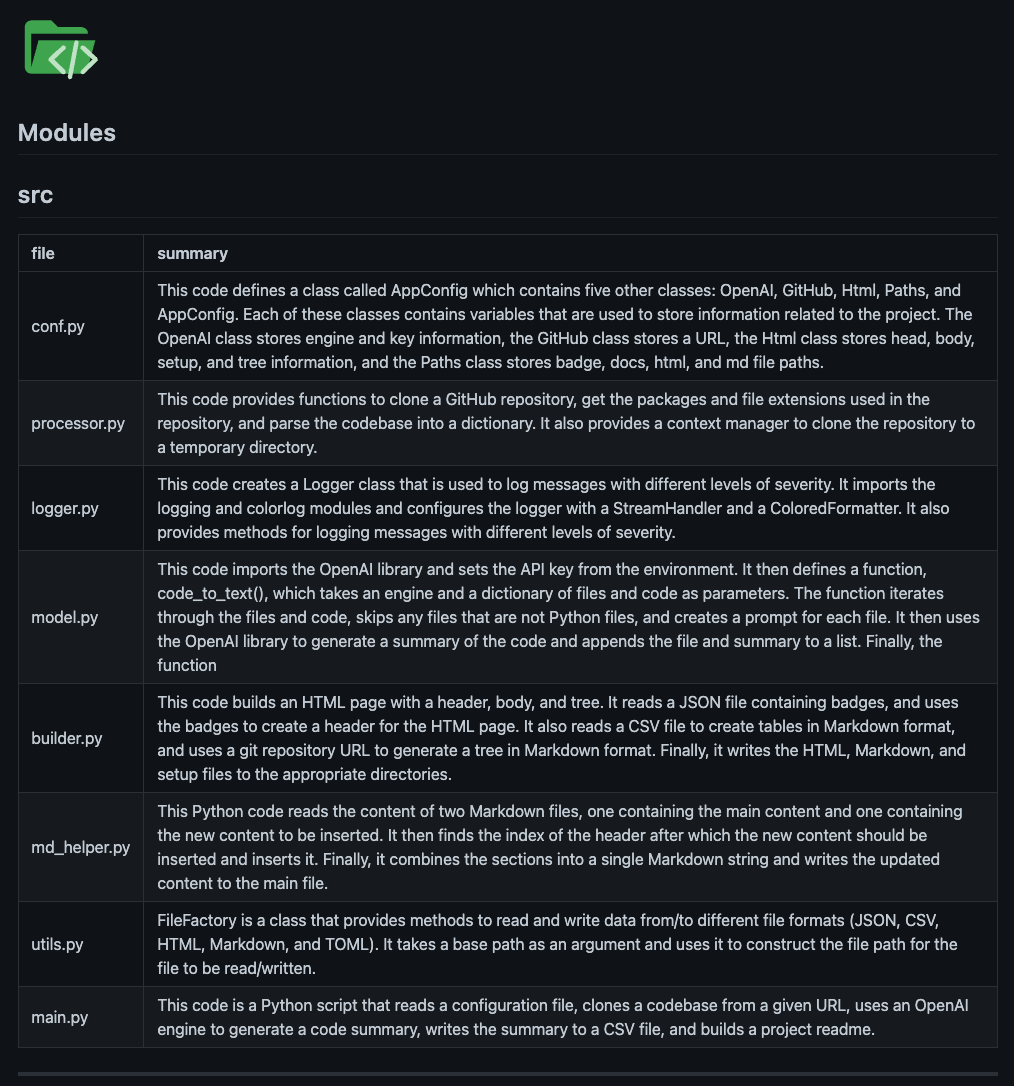
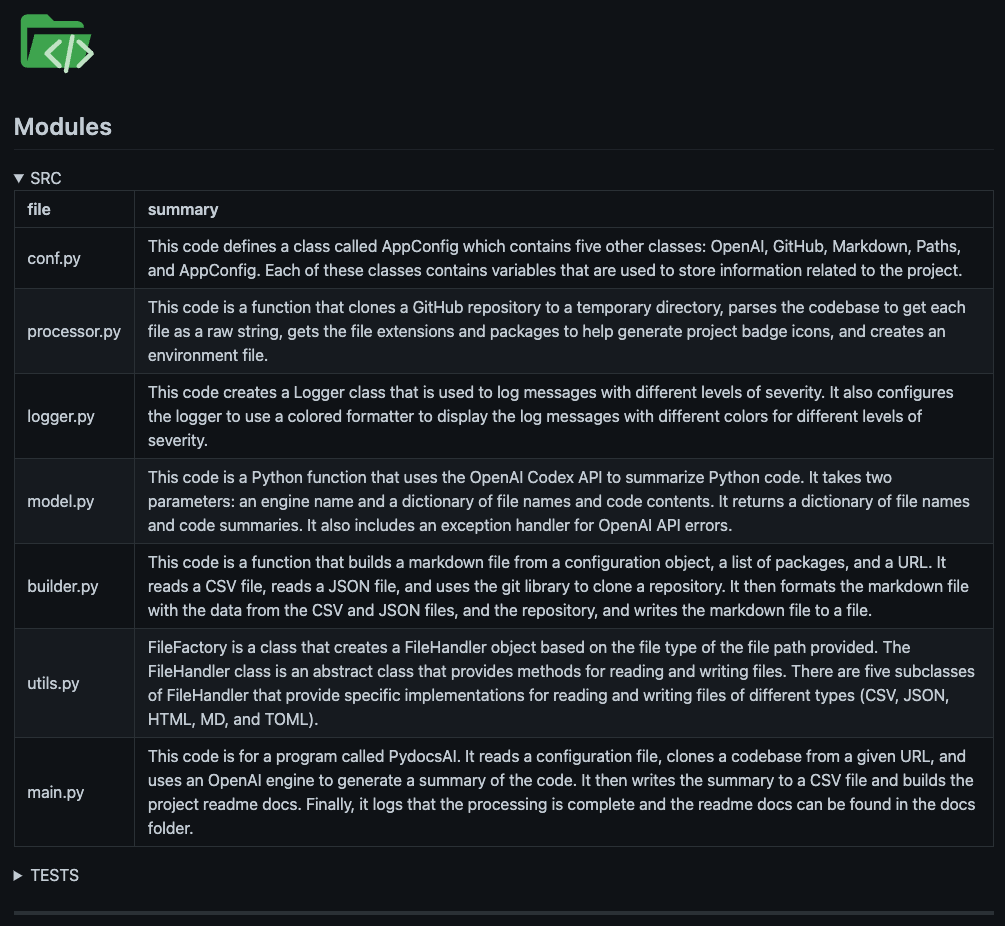
Update name from PydocsAI to README-AI.

diff --git a/src/builder.py b/src/builder.py
@@ -97,6 +97,8 @@ def get_header(badges, pkgs):
     for pkg in pkgs:
         if pkg in badges:
             pkg_name = pkg.strip().lower()
+            if not pkg_name:
+                pkg_name = pkg.strip()
             badge = badges[pkg_name]["src"]
             header += f"![{pkg_name}]({badge})"
     return header

diff --git a/docs/readme.md b/docs/readme.md
@@ -4,7 +4,7 @@
 
 <img src="https://raw.githubusercontent.com/PKief/vscode-material-icon-theme/ec559a9f6bfd399b82bb44393651661b08aaf7ba/icons/folder-markdown-open.svg" width="100">
 
-<div><p>PydocsAI</p></h1>
+<div><p>README-AI</p></h1>
 
 
 > [insert-project-summary]
@@ -84,31 +84,31 @@
 
 <details closed><summary>SRC</summary>
 
-| file         | summary                                                                                                                                                                                                                                                                                                                                                                             |
-|:-------------|:------------------------------------------------------------------------------------------------------------------------------------------------------------------------------------------------------------------------------------------------------------------------------------------------------------------------------------------------------------------------------------|
-| conf.py      | This code defines a class called AppConfig which contains five other classes: OpenAI, GitHub, Markdown, Paths, and AppConfig. Each of these classes contains variables that are used to store information related to the project.                                                                                                                                                   |
-| processor.py | This code is a function that clones a GitHub repository to a temporary directory, parses the codebase to get each file as a raw string, gets the file extensions and packages to help generate project badge icons, and creates an environment file.                                                                                                                                |
-| logger.py    | This code creates a Logger class that is used to log messages with different levels of severity. It imports the logging and colorlog modules and sets up a StreamHandler with a ColoredFormatter to format the log messages. It also provides methods for logging messages with different levels of severity.                                                                       |
-| model.py     | This code is a Python function that uses the OpenAI Codex API to summarize Python code. It takes two parameters: an engine name and a dictionary of file names and code contents. It returns a dictionary of file names and code summaries. It also includes an exception handler for OpenAI API errors.                                                                            |
-| builder.py   | This code is a function that builds a markdown file from a configuration object, a list of packages, and a URL. It reads a CSV file, reads a JSON file, and uses the git library to clone a repository. It then formats the markdown file with the data from the CSV and JSON files, and the repository tree.                                                                       |
-| utils.py     | FileFactory is a class that creates a FileHandler object based on the file type of the file path provided. The FileHandler class is an abstract class that provides methods for reading and writing files. There are five subclasses of FileHandler that provide specific implementations for reading and writing files of different types (CSV, JSON, HTML, MD, and TOML).         |
-| main.py   | This code is a script for a program called PydocsAI. It imports various modules and reads a configuration file. It then clones a codebase from a given URL and creates a list of packages and extensions. It then uses an OpenAI engine to generate a summary of the code and writes it to a CSV file. Finally, it builds the project readme docs and prints a message to the user. |
+| file         | summary                                                                                                                                                                                                                                                                                                                                                                     |
+|:-------------|:----------------------------------------------------------------------------------------------------------------------------------------------------------------------------------------------------------------------------------------------------------------------------------------------------------------------------------------------------------------------------|
+| conf.py      | This code defines a class called AppConfig which contains five other classes: OpenAI, GitHub, Markdown, Paths, and AppConfig. Each of these classes contains variables that are used to store information related to the project.                                                                                                                                           |
+| processor.py | This code is a function that clones a GitHub repository to a temporary directory, parses the codebase to get each file as a raw string, gets the file extensions and packages to help generate project badge icons, and creates an environment file.                                                                                                                        |
+| logger.py    | This code creates a Logger class that is used to log messages with different levels of severity. It also configures the logger to use a colored formatter to display the log messages with different colors for different levels of severity.                                                                                                                               |
+| model.py     | This code is a Python function that uses the OpenAI Codex API to summarize Python code. It takes two parameters: an engine name and a dictionary of file names and code contents. It returns a dictionary of file names and code summaries. It also includes an exception handler for OpenAI API errors.                                                                    |
+| builder.py   | This code is a function that builds a markdown file from a configuration object, a list of packages, and a URL. It reads a CSV file, reads a JSON file, and uses the git library to clone a repository. It then formats the markdown file with the data from the CSV and JSON files, and the repository, and writes the markdown file to a file.                            |
+| utils.py     | FileFactory is a class that creates a FileHandler object based on the file type of the file path provided. The FileHandler class is an abstract class that provides methods for reading and writing files. There are five subclasses of FileHandler that provide specific implementations for reading and writing files of different types (CSV, JSON, HTML, MD, and TOML). |
+| main.py       | This code is for a program called PydocsAI. It reads a configuration file, clones a codebase from a given URL, and uses an OpenAI engine to generate a summary of the code. It then writes the summary to a CSV file and builds the project readme docs. Finally, it logs that the processing is complete and the readme docs can be found in the docs folder.              |
 
 </details>
 
 
 <details closed><summary>TESTS</summary>
 
-| file              | summary                                                                                                                                                                                                                                                                                                                                                                                       |
-|:------------------|:----------------------------------------------------------------------------------------------------------------------------------------------------------------------------------------------------------------------------------------------------------------------------------------------------------------------------------------------------------------------------------------------|
-| test_model.py     | This code is a unit test for the code_to_text function in the model module. It mocks the openai.Completion.create function and tests the code_to_text function with two different files. It then checks that the expected output is returned.                                                                                                                                                 |
-| test_utils.py     | This code is a Python file containing utility functions for testing. It contains two functions, 'assert_equal' and 'assert_not_equal', which are used to compare two values and check if they are equal or not. The functions will return a boolean value indicating the result of the comparison.                                                                                            |
-| conftest.py       | This code is a pytest configuration file. It defines two fixtures, test_conf and my_fixture. The test_conf fixture has a scope of "function" while the my_fixture fixture returns a list of numbers.                                                                                                                                                                                          |
-| test_conf.py      | This code is a test for the AppConfig class. It creates an instance of AppConfig with OpenAI, GitHub, Markdown, and Paths objects as parameters. It then tests the values of the parameters to make sure they are correct.                                                                                                                                                                    |
-| test_builder.py   | This code is a Python script for testing a builder module. It contains a class called TestBuilder which has two methods: test_build_and_run and test_run. The test_build_and_run method tests the build and run functionality of the builder module, while the test_run method tests the run functionality of the builder module.                                                             |
-| test_processor.py | This code is a test file for a processor module. It contains a test class with two test methods, test_process_data and test_process_file. The test_process_data method tests the processor module's ability to process data, while the test_process_file method tests the processor module's ability to process a file. Both methods use the unittest library to assert the expected results. |
-| test_main.py      | This code tests the main.py file by mocking the configuration dictionary, files, and other functions. It checks that the logger is called correctly, the configuration file is read, the codebase is cloned, the code is converted to text, and the builder is built. It also checks that the correct file is written with the code summary.                                                  |
-| test_logger.py    | This code is a test file for a logger module. It contains a test class with two test methods, test_logger_logs_message and test_logger_logs_warning. These methods test the functionality of the logger module to ensure that it is logging messages and warnings correctly.                                                                                                                  |
+| file              | summary                                                                                                                                                                                                                                                                                                                                                                                                            |
+|:------------------|:-------------------------------------------------------------------------------------------------------------------------------------------------------------------------------------------------------------------------------------------------------------------------------------------------------------------------------------------------------------------------------------------------------------------|
+| test_model.py     | This code is a unit test for the code_to_text() function in the model.py file. It mocks the openai.Completion.create() function and tests the code_to_text() function with two different files. It then checks that the correct calls were made to the mock_create function and that the result of the code_to_text() function is as expected.                                                                     |
+| test_utils.py     | This code is a Python file containing utility functions for testing. It contains two functions, 'assert_equal' and 'assert_not_equal', which are used to compare two values and check if they are equal or not. The functions will return a boolean value (True or False) depending on the result of the comparison.                                                                                               |
+| conftest.py       | This code is a pytest configuration file. It defines two fixtures, test_conf and my_fixture. The test_conf fixture has a scope of "function" while the my_fixture fixture returns a list of numbers.                                                                                                                                                                                                               |
+| test_conf.py      | This code is a test for the AppConfig class. It creates an instance of AppConfig with OpenAI, GitHub, Markdown, and Paths objects as parameters. It then tests the values of the parameters to make sure they are correct.                                                                                                                                                                                         |
+| test_builder.py   | This code is a Python script for testing a builder module. It contains a class called TestBuilder which has two methods: test_build_and_run and test_run. The test_build_and_run method tests the build and run functionality of the builder module, while the test_run method tests the run functionality of the builder module.                                                                                  |
+| test_processor.py | This code is a test file for a processor module. It contains a class called TestProcessor which has two methods: test_process_data and test_process_file. The test_process_data method tests the processor's ability to process data, while the test_process_file method tests the processor's ability to process a file. Both methods use the unittest library to assert that the processor is working correctly. |
+| test_main.py      | This code tests the main.py file by mocking the configuration dictionary, files, and other functions. It checks that the logger is called correctly, the configuration file is read, the codebase is cloned, the code is converted to text, and the builder is built. It also checks that the correct file is written with the code summary.                                                                       |
+| test_logger.py    | This code is a test file for a logger module. It contains a test class with two test methods, test_logger_logs_message and test_logger_logs_warning. These methods test the functionality of the logger module to ensure that it is logging messages and warnings correctly.                                                                                                                                       |
 
 </details>
 <hr />
@@ -125,18 +125,18 @@ Before you begin, ensure that you have the following prerequisites installed:
 
 ### Installation
 
-1. Clone the PydocsAI repository:
+1. Clone the README-AI repository:
 
 
 ```sh
-git clone https://github.com/eli64s/PydocsAI && cd PydocsAI
+git clone https://github.com/eli64s/README-AI && cd README-AI
 ```
 
 2. Create a new Conda environment and install the required dependencies:
 
 ```sh
 conda env create -f setup/environment.yaml
-conda activate PydocsAI
+conda activate README-AI
 ```
 
 > 3. [insert-additional-steps]
@@ -146,7 +146,7 @@ conda activate PydocsAI
  #... 
 ```
 
-### Running PydocsAI
+### Running README-AI
 
 ```sh
 # ... 

diff --git a/README.md b/README.md
@@ -2,7 +2,7 @@
   <h1 align="center">
     <img src="https://raw.githubusercontent.com/PKief/vscode-material-icon-theme/ec559a9f6bfd399b82bb44393651661b08aaf7ba/icons/folder-markdown-open.svg" width="100" />
     <br />
-    PydocsAI
+    README-AI
   </h1>
 
   > <h3 align="center">Automate README creation, code documentation, and more!</h3>
@@ -31,7 +31,7 @@
   - [GitHub Repository](#github-repository)
   - [OpenAI API Setup](#openai-api-setup)
   - [Installation](#installation)
-  - [Running PydocsAI](#running-pydocsai)
+  - [Running README-AI](#running-readme-ai)
 - [🧩 Roadmap](#-roadmap)
 - [🤝 Contributing](#-contributing)
 - [📄 License](#-license)
@@ -42,9 +42,9 @@
 
 ## 📍 Introdcution
 
-PydocsAI is a Python package that provides an automated way to generate a README.md file and document your codebase. This package leverages OpenAI's GPT Davinci model to translate a given codebase to natural language, producing a structured project README template that includes codebase metadata and documentation.
+README-AI is a Python package that provides an automated way to generate a README.md file and document your codebase. This package leverages OpenAI's GPT Davinci model to translate a given codebase to natural language, producing a structured project README template that includes codebase metadata and documentation.
 
-The project is still under development and is opinionated in its setup, but it can be used as a starting point for projects that require documentation. The current version of PyDocsAI is limited to codebases written in Python.
+The project is still under development and is opinionated in its setup, but it can be used as a starting point for projects that require documentation. The current version of README-AI is limited to codebases written in Python.
 
 ---
 
@@ -83,7 +83,7 @@ The project is still under development and is opinionated in its setup, but it c
 | <br /><br/><b>Environment YAML</b><br /><br />Creates your project's environment yaml<br /> file and generates an installation guide section for others can use your project easily! | ![badges](docs/imgs/usage.png) |
 
 <br />
-<h1 align="center">👇<br /><br /><a href="https://github.com/eli64s/PydocsAI/blob/main/docs/readme.md">Example Output README File</a></h1>
+<h1 align="center">👇<br /><br /><a href="https://github.com/eli64s/README-AI/blob/main/docs/readme.md">Example Output README File</a></h1>
 
 ---
 
@@ -109,7 +109,7 @@ url = "<INSERT-GITHUB-REPO>"
 
 ### OpenAI API Setup
 
-To use PydocsAI, you will need an API key for OpenAI. Follow the steps below to create an API key:
+To use README-AI, you will need an API key for OpenAI. Follow the steps below to create an API key:
 
 <details closed>
 <summary>User Guide</summary>
@@ -125,17 +125,17 @@ To use PydocsAI, you will need an API key for OpenAI. Follow the steps below to 
 
 ### Installation
 
-1. Clone the PydocsAI repository:
+1. Clone the README-AI repository:
 
 ```sh
-git clone https://github.com/eli64s/PydocsAI.git && cd PydocsAI
+git clone https://github.com/eli64s/README-AI.git && cd README-AI
 ```
 
 2. Create a new Conda environment and install the required dependencies:
 
 ```sh
 conda env create -f setup/environment.yaml
-conda activate pydocsai
+conda activate README-AI
 ```
 
 3. Set up the OpenAI API key by creating an environment variable:
@@ -146,9 +146,9 @@ export OPENAI_API_KEY=<your-api-key>
 
 Alternatively, you can set up the OpenAI API key in a .env file in the root directory of the project.
 
-### Running PydocsAI
+### Running README-AI
 
-Once you have installed PydocsAI, you can generate a README file for your codebase by running the following command:
+Once you have installed README-AI, you can generate a README file for your codebase by running the following command:
 
 ```sh
 python src/main.py
@@ -166,7 +166,7 @@ python src/main.py
 
 ## 🤝 Contributing
 
-We welcome contributions to PydocsAI from the open-source community! If you would like to contribute, please see our contribution guidelines for more information.
+We welcome contributions to README-AI from the open-source community! If you would like to contribute, please see our contribution guidelines for more information.
 
 ---
 
@@ -178,7 +178,7 @@ This project is licensed under the MIT License - see the LICENSE file for detail
 
 ## 📧 Contact
 
-If you have any questions or feedback about PydocsAI, please feel free to reach out. We would be happy to hear from you!
+If you have any questions or feedback about README-AI, please feel free to reach out. We would be happy to hear from you!
 
 ---
 
